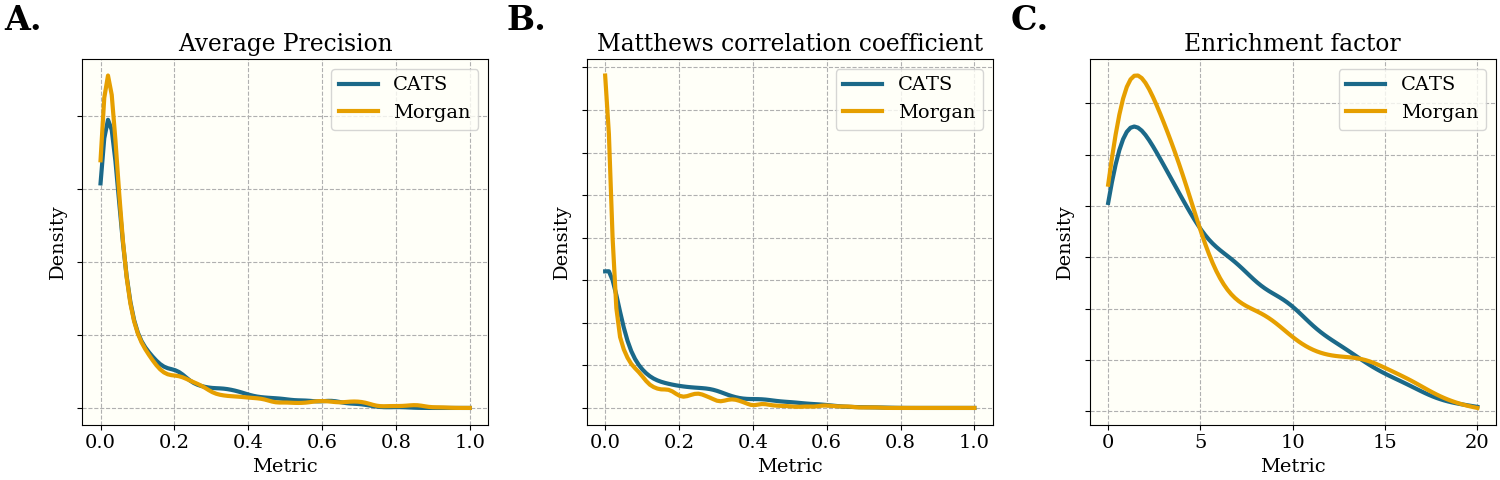
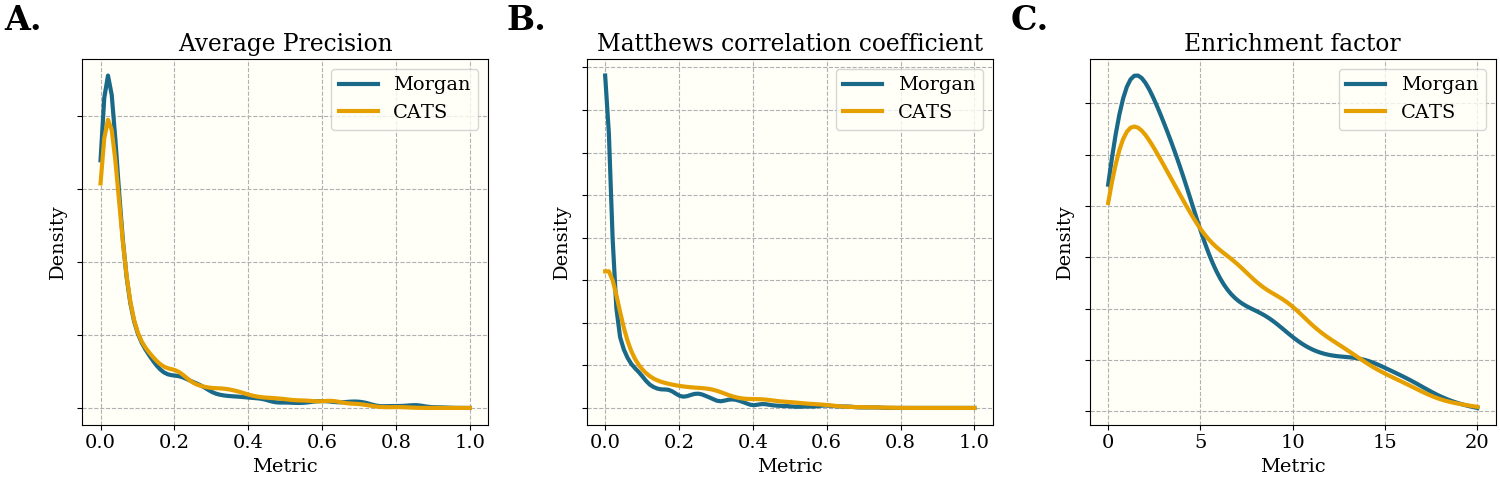
metrics

diff --git a/code/compare_metrics_figure.py b/code/compare_metrics_figure.py
@@ -26,7 +26,7 @@ for metric, title in zip(['ap', 'mcc', 'ef'], ['Average Precision', 'Matthews co
     cats = after_cats_trim[metric+'_cats']
     morg = after_morgan_trim[metric+'_morgan']
     
-    for data, lab in zip([cats, morg], ['CATS','Morgan']):
+    for data, lab in zip([morg, cats], ['Morgan','CATS']):
         dens = sm.nonparametric.KDEUnivariate(data)
         dens.fit()
         x =np.linspace(0,max(1, max(max(cats), max(morg))),100)
